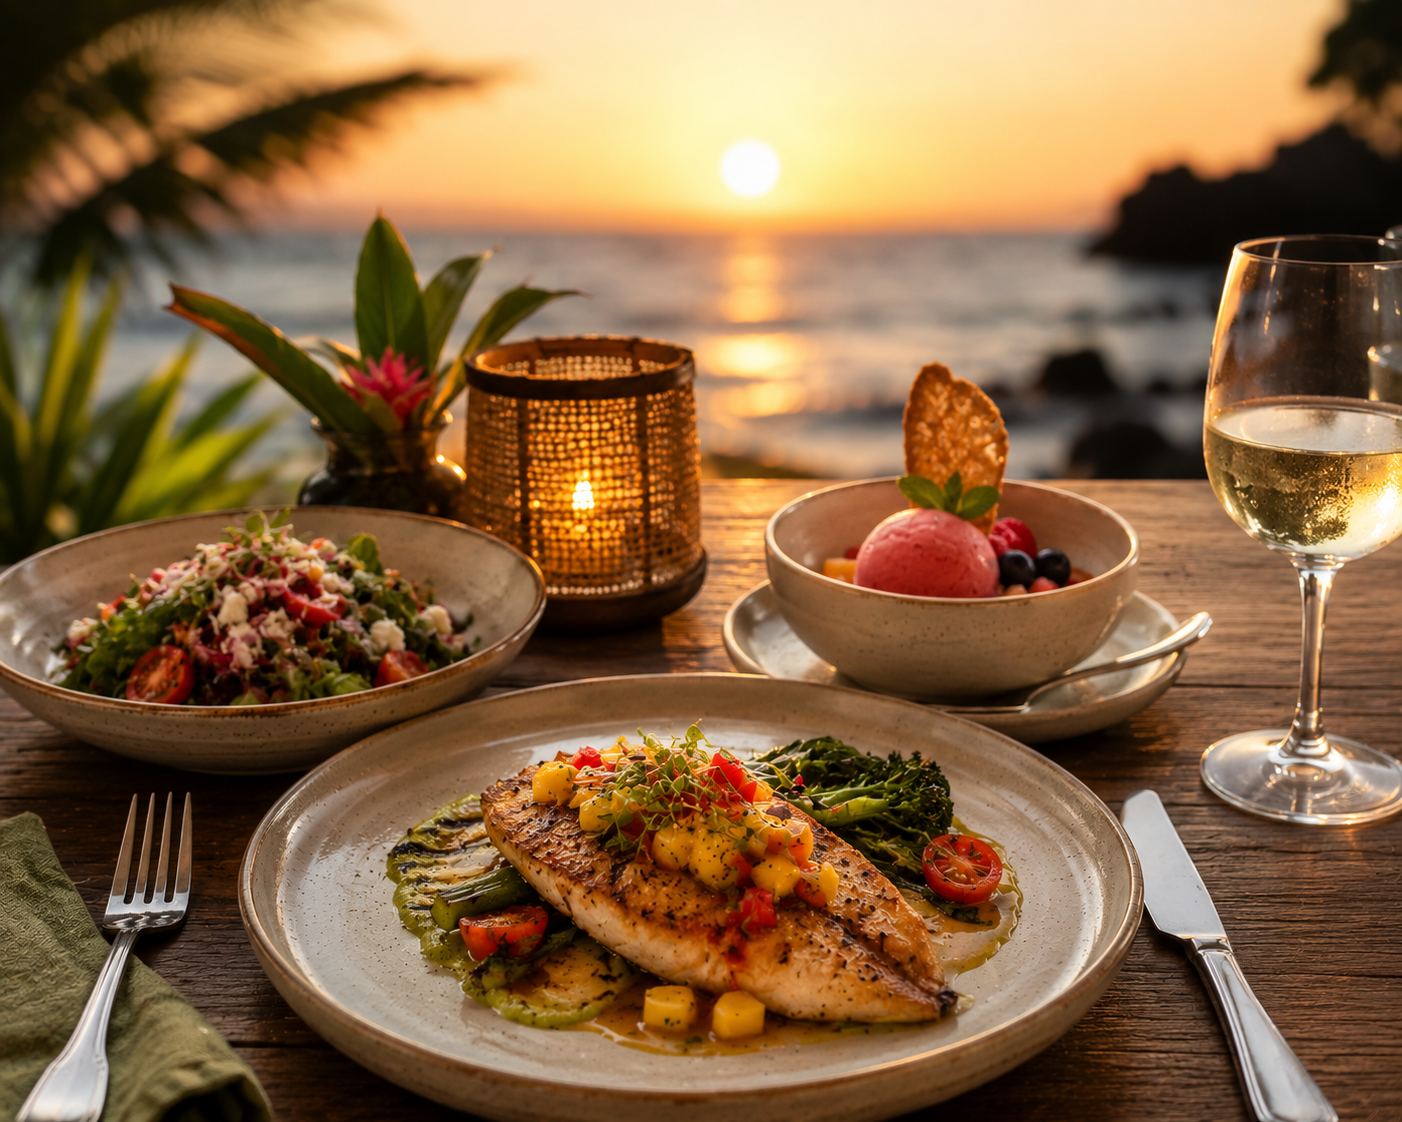
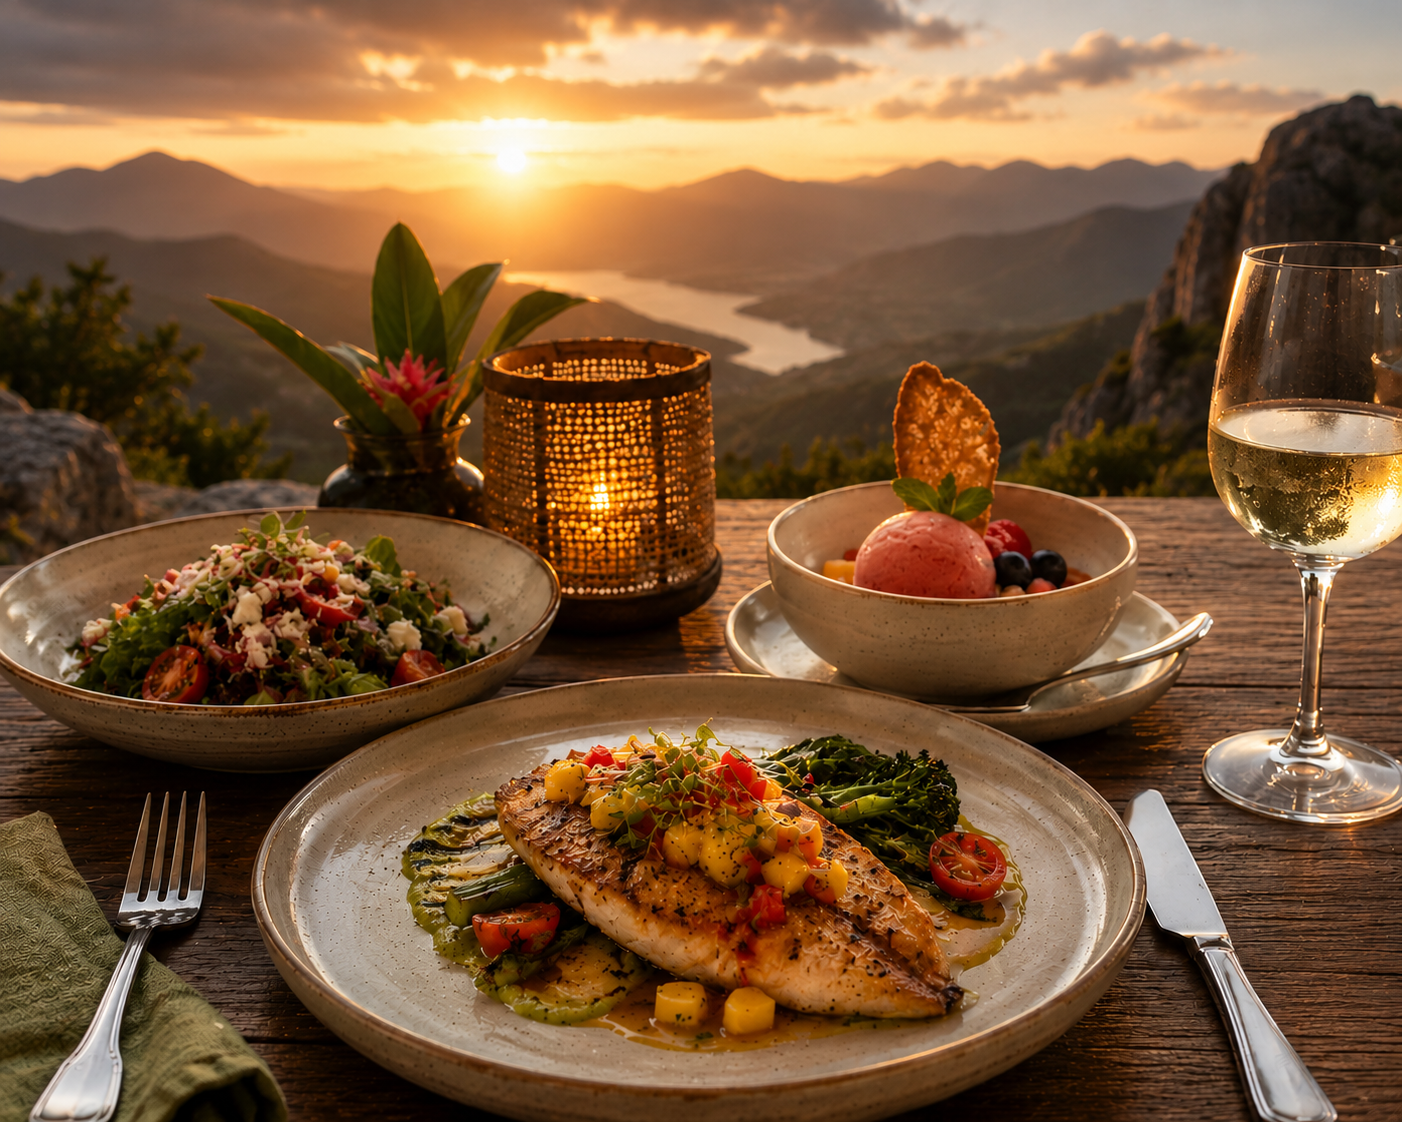
insert package

diff --git a/index.html b/index.html
@@ -145,100 +145,36 @@
       </div>
       <p class="text-muted">Our private restaurant — with a spectacular terrace overlooking the hills — is reserved exclusively for villa guests. Every meal is pre-booked and personally tailored to your preferences. Whether you want a traditional Costa Rican breakfast, a mountain picnic, or a candlelit dinner prepared by our private chef, we organise every detail for you. <span style="color:var(--gold);font-style:italic">All meals are prepared exclusively by our private chef.</span></p>
     </div>
-    <div class="menu-grid">
+    <div style="display:flex;justify-content:center;gap:2rem;flex-wrap:wrap;max-width:900px;margin:0 auto">
 
-  <!-- 1. Gallo Pinto -->
-  <div class="menu-card">
+  <!-- 1. Breakfast Package -->
+  <div class="menu-card" style="flex:0 1 350px">
     <div style="height:200px;overflow:hidden">
-      <img src="img/menu-gallo-pinto.jpg" alt="Gallo Pinto Breakfast" style="width:100%;height:100%;object-fit:cover;transition:transform 0.5s;display:block" onmouseover="this.style.transform='scale(1.05)'" onmouseout="this.style.transform='scale(1)'"/>
+      <img src="img/menu-gallo-pinto.jpg" alt="Breakfast Package" style="width:100%;height:100%;object-fit:cover;transition:transform 0.5s;display:block" onmouseover="this.style.transform='scale(1.05)'" onmouseout="this.style.transform='scale(1)'"/>
     </div>
     <div style="padding:1.75rem">
       <div class="menu-card-category">Morning</div>
-      <h3>Gallo Pinto Breakfast</h3>
-      <p>Traditional rice & beans, farm eggs, ripe plantain, local cheese, and fresh tropical fruit bowl.</p>
+      <h3>Breakfast Package</h3>
+      <p>A complete breakfast experience prepared by our private chef, featuring traditional Costa Rican specialties and seasonal fresh fruits.</p>
       <div class="menu-card-footer">
-        <span class="menu-price">$18</span>
-        <button class="add-to-cart" onclick="addToCart('Gallo Pinto Breakfast',18,'Morning meal')">Add +</button>
+        <span class="menu-price">$25</span>
+        <button class="add-to-cart" onclick="addToCart('Breakfast Package',25,'Breakfast · Private chef')">Add +</button>
       </div>
     </div>
   </div>
 
-  <!-- 2. Continental Sunrise -->
-  <div class="menu-card">
+  <!-- 2. Dinner Package -->
+  <div class="menu-card" style="flex:0 1 350px">
     <div style="height:200px;overflow:hidden">
-      <img src="img/menu-continental-sunrise.png" alt="Continental Sunrise" style="width:100%;height:100%;object-fit:cover;transition:transform 0.5s;display:block" onmouseover="this.style.transform='scale(1.05)'" onmouseout="this.style.transform='scale(1)'"/>
-    </div>
-    <div style="padding:1.75rem">
-      <div class="menu-card-category">Morning</div>
-      <h3>Continental Sunrise</h3>
-      <p>Artisan bread, local honey, seasonal fruits, yogurt with granola, and freshly brewed Costa Rican coffee.</p>
-      <div class="menu-card-footer">
-        <span class="menu-price">$14</span>
-        <button class="add-to-cart" onclick="addToCart('Continental Sunrise',14,'Morning meal')">Add +</button>
-      </div>
-    </div>
-  </div>
-
-  <!-- 3. Tropical Fruit Breakfast -->
-  <div class="menu-card">
-    <div style="height:200px;overflow:hidden">
-      <img src="img/menu-tropical-fruits.jpg" alt="Tropical Fruit Breakfast" style="width:100%;height:100%;object-fit:cover;transition:transform 0.5s;display:block" onmouseover="this.style.transform='scale(1.05)'" onmouseout="this.style.transform='scale(1)'"/>
-    </div>
-    <div style="padding:1.75rem">
-      <div class="menu-card-category">Morning · Fresh & Light</div>
-      <h3>Tropical Fruit Breakfast</h3>
-      <p>A generous platter of seasonal tropical fruits — watermelon, pineapple, papaya, and banana — served with freshly squeezed orange juice on our open-air terrace.</p>
-      <div class="menu-card-footer">
-        <span class="menu-price">$12</span>
-        <button class="add-to-cart" onclick="addToCart('Tropical Fruit Breakfast',12,'Breakfast · Private chef')">Add +</button>
-      </div>
-    </div>
-  </div>
-
-  <!-- 4. Jungle Ceviche -->
-  <div class="menu-card">
-    <div style="height:200px;overflow:hidden">
-      <img src="img/menu-ceviche-corvina.jpg" alt="Jungle Ceviche" style="width:100%;height:100%;object-fit:cover;transition:transform 0.5s;display:block" onmouseover="this.style.transform='scale(1.05)'" onmouseout="this.style.transform='scale(1)'"/>
-    </div>
-    <div style="padding:1.75rem">
-      <div class="menu-card-category">Midday</div>
-      <h3>Jungle Ceviche</h3>
-      <p>Fresh corvina marinated in citrus, cilantro, red onion, and local ají dulce. Served with patacones.</p>
-      <div class="menu-card-footer">
-        <span class="menu-price">$16</span>
-        <button class="add-to-cart" onclick="addToCart('Jungle Ceviche',16,'Lunch')">Add +</button>
-      </div>
-    </div>
-  </div>
-
-  <!-- 5. Sunset Dinner Table -->
-  <div class="menu-card">
-    <div style="height:200px;overflow:hidden">
-      <img src="img/menu-sunset-dinner.png" alt="Sunset Dinner Table" style="width:100%;height:100%;object-fit:cover;transition:transform 0.5s;display:block" onmouseover="this.style.transform='scale(1.05)'" onmouseout="this.style.transform='scale(1)'"/>
+      <img src="img/menu-sunset-dinner.png" alt="Dinner Package" style="width:100%;height:100%;object-fit:cover;transition:transform 0.5s;display:block" onmouseover="this.style.transform='scale(1.05)'" onmouseout="this.style.transform='scale(1)'"/>
     </div>
     <div style="padding:1.75rem">
       <div class="menu-card-category">Evening</div>
-      <h3>Sunset Dinner Table</h3>
-      <p>A curated three-course dinner with local produce, a daily catch, and a dessert of tropical sorbet.</p>
+      <h3>Dinner Package</h3>
+      <p>An elegant multi-course dinner with local produce and the daily catch, prepared by our private chef and served on our terrace overlooking the hills.</p>
       <div class="menu-card-footer">
-        <span class="menu-price">$38</span>
-        <button class="add-to-cart" onclick="addToCart('Sunset Dinner Table',38,'Dinner')">Add +</button>
-      </div>
-    </div>
-  </div>
-
-  <!-- 6. Pancakes -->
-  <div class="menu-card">
-    <div style="height:200px;overflow:hidden">
-      <img src="img/menu-pancakes-breakfast.jpg" alt="Pancakes & Tropical Fruits" style="width:100%;height:100%;object-fit:cover;transition:transform 0.5s;display:block" onmouseover="this.style.transform='scale(1.05)'" onmouseout="this.style.transform='scale(1)'"/>
-    </div>
-    <div style="padding:1.75rem">
-      <div class="menu-card-category">Morning · Sweet start</div>
-      <h3>Pancakes & Tropical Fruits</h3>
-      <p>Fluffy pancakes with fresh strawberries and blueberries, alongside a generous platter of seasonal tropical fruits — watermelon, mango, papaya — and freshly brewed Costa Rican coffee.</p>
-      <div class="menu-card-footer">
-        <span class="menu-price">$16</span>
-        <button class="add-to-cart" onclick="addToCart('Pancakes & Tropical Fruits',16,'Breakfast · Private chef')">Add +</button>
+        <span class="menu-price">$50</span>
+        <button class="add-to-cart" onclick="addToCart('Dinner Package',50,'Dinner · Private chef')">Add +</button>
       </div>
     </div>
   </div>